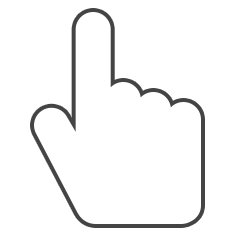
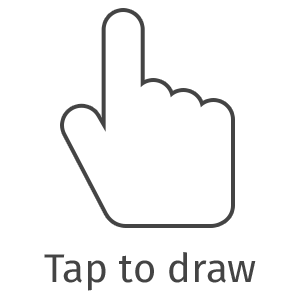
updating some graphics

Changed region(s): [[0.1167, 0.0, 0.875, 0.9917]]

diff --git a/css/styles.css b/css/styles.css
@@ -50,11 +50,11 @@ canvas {
 }
 
 #btn-pencil {
-  border-bottom: 1px solid rgb(0,0,0);
+  //border-bottom: 1px solid rgb(0,0,0);
 }
 
 #btn-eraser {
-  border-bottom: 1px solid rgb(255,255,255);
+  //border-bottom: 1px solid rgb(255,255,255);
 }
 
 #footer {
@@ -101,48 +101,68 @@ button#color-zero {
   background: rgb(0,0,0);
   border: 0px;
   border-radius: 2px;
+  height: 40px;
+  width: 40px;
 }
 
 button#color-one {
   background: rgb(235,53,36);
   border: 0px;
   border-radius: 2px;
+  height: 40px;
+  width: 40px;
 }
 
 button#color-two {
   background: rgb(223,78,50);
   border: 0px;
   border-radius: 2px;
+  height: 40px;
+  width: 40px;
 }
 
 button#color-three {
   background: rgb(223,171,48);
   border: 0px;
   border-radius: 2px;
+  height: 40px;
+  width: 40px;
 }
 
 button#color-four {
   background: rgb(74,187,134);
   border: 0px;
   border-radius: 2px;
+  height: 40px;
+  width: 40px;
 }
 
 button#color-five {
   background: rgb(52,152,219);
   border: 0px;
   border-radius: 2px;
+  height: 40px;
+  width: 40px;
 }
 
 button#color-six {
   background: rgb(53,72,157);
   border: 0px;
   border-radius: 2px;
+  height: 40px;
+  width: 40px;
 }
 
 button#color-seven {
   background: rgb(133,36,114);
   border: 0px;
   border-radius: 2px;
+  height: 40px;
+  width: 40px;
+}
+
+.btn-primary {
+  background-color: #00539f;
 }
 
 #done-panel {

diff --git a/js/draw.js b/js/draw.js
@@ -8,6 +8,11 @@
       context.lineCap = 'round';
     });
 
+    $("#startup").click(function(){
+      //alert("click");
+      //$("#startup").hide();
+    })
+
     // Add a blur/soft brush
     $("#spraycan").click(function(){
       context.shadowColor = context.fillStyle;
@@ -21,6 +26,10 @@
     // get the canvas element and its context
     var canvas = document.getElementById('sketchpad');
     var context = canvas.getContext('2d');
+    $("#sketchpad").css("background-image","url('../images/btns/startup-image.png')")
+                   .css("background-position","center center")
+                   .css("background-repeat","no-repeat")
+                   .css("background-size","30%")
 
     var firstTimeUse = 0;
 
@@ -33,7 +42,7 @@
 
           //remove div, for first time use
           if(firstTimeUse == 1){
-            $("#startup").remove();
+            $("#sketchpad").css("background-image","none")
             context.fillStyle = 'rgba(0,0,0,0.1)'; // black
             context.strokeStyle = 'rgba(0,0,0,0.1)'; // black
           }
@@ -41,6 +50,7 @@
           context.beginPath();
           context.moveTo(coors.x, coors.y);
           this.isDrawing = true;
+          //alert(this.isDrawing);
        },
        touchmove: function(coors){
           if (this.isDrawing) {

diff --git a/index.html b/index.html
@@ -78,11 +78,6 @@
 	<!-- install app from URL -->
 	<!-- <button id="install"><span class="icon icon-add">add</span></button> -->
 
-  <div id="startup" class="text-center">
-    <img src="images/btns/startup-image.png" style="width: 50%" alt="startup image">
-    <p>Tap to draw!</p>
-  </div>
-
   <div id="container">
 
       <div id="top">
@@ -122,8 +117,8 @@
               <button class="btn btn-default" id="color-three"></button>
               <button class="btn btn-default" id="color-four"></button>
               <button class="btn btn-default" id="color-five"></button>
-              <button class="btn btn-default" id="color-six"></button>
-              <button class="btn btn-default" id="color-seven"></button>
+              <!-- <button class="btn btn-default" id="color-six"></button> -->
+              <!-- <button class="btn btn-default" id="color-seven"></button> -->
             </div>
         </div>
 

diff --git a/js/toolbar.js b/js/toolbar.js
@@ -7,7 +7,9 @@
       context.fillStyle = 'rgba(0,0,0,' + newBrushOpacity + ')'; // black
       context.strokeStyle = 'rgba(0,0,0,' + newBrushOpacity + ')'; // black
       //set the pencil button border
-      $("#btn-pencil").css("border-bottom","1px solid rgb(0,0,0)");
+      $("#btn-pencil").css("background-color","rgb(0,0,0)");
+      //replace image with black brush
+      //$("#btn-pencil").replaceWith("<img src='../images/btns/btn-brush-green.png' style='margin-left: 6px; margin-right: 6px; height: 31px; width: 31px;'>");
     });
 
     $("#color-one").click(function(){
